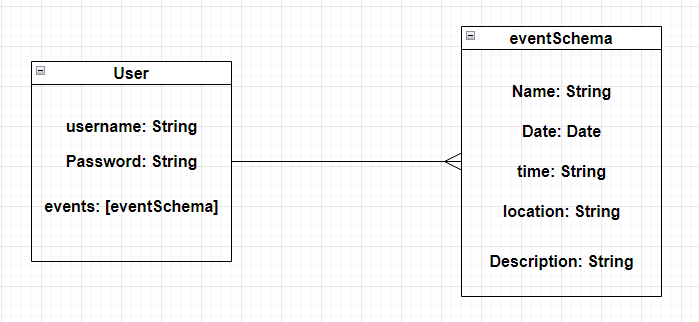
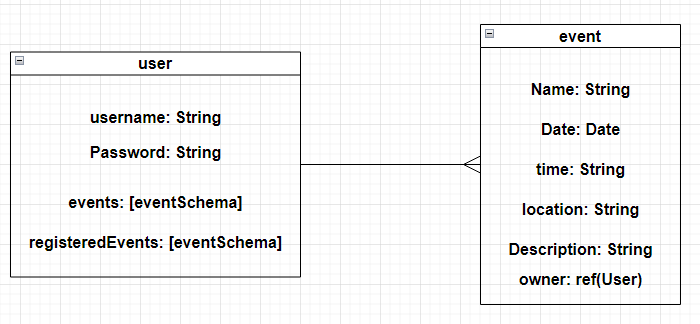
before deployment commet

diff --git a/public/stylesheets/style.css b/public/stylesheets/style.css
@@ -40,6 +40,18 @@ form {
     border-radius: 5px;
     margin-top: 20px;
 }
+.newEvent{
+    display: flex;
+    flex-direction: column;
+    justify-content: center;
+    width: 500px;
+    height: 350px;
+    background-color: white;
+    box-shadow: 0 2px 4px rgba(0, 0, 0, 0.5);
+    padding: 8px;
+    border-radius: 5px;
+    margin-top: 20px;
+}
 
 .signin{
     margin-top: 40px;
@@ -47,7 +59,16 @@ form {
 .signup{
     margin-top: 40px;
 }
-
+input{
+    height: 30px;
+    font-size: 18px;
+    display: block;
+}
+textarea{
+    height: 30px;
+    font-size: 18px;
+    display: block;
+}
 #username{
     height: 30px;
     font-size: 18px;
@@ -68,6 +89,10 @@ form {
 }
 #confirmPassword:focus{
     background-color: #a5e1f3;
+}
+.deletebtn{
+    height: 50px;
+    font-size: 18px;
 }
 label{
     font-size: 18px;

diff --git a/README.md b/README.md
@@ -23,21 +23,20 @@
 2. User can view the community page and register for an event.
 3. User can view registered event details.
 
+Project on Github: [here](https://github.com/AhmedAshlw/Event-Management-System/tree/main)
+
 ### ERD
 ![](./images/ERD.PNG)
 
 
-### Getting Started
-```
+### Screenshots
 
-```
+***
 
-
-### ***Screenshots***
-
-##### ..
-![]()
-
+### Future Enhancements
+1. Add public and private events
+2. Add tickets to events
+3. Make it responsive on Tablet and Mobile views
 
 ***
 
